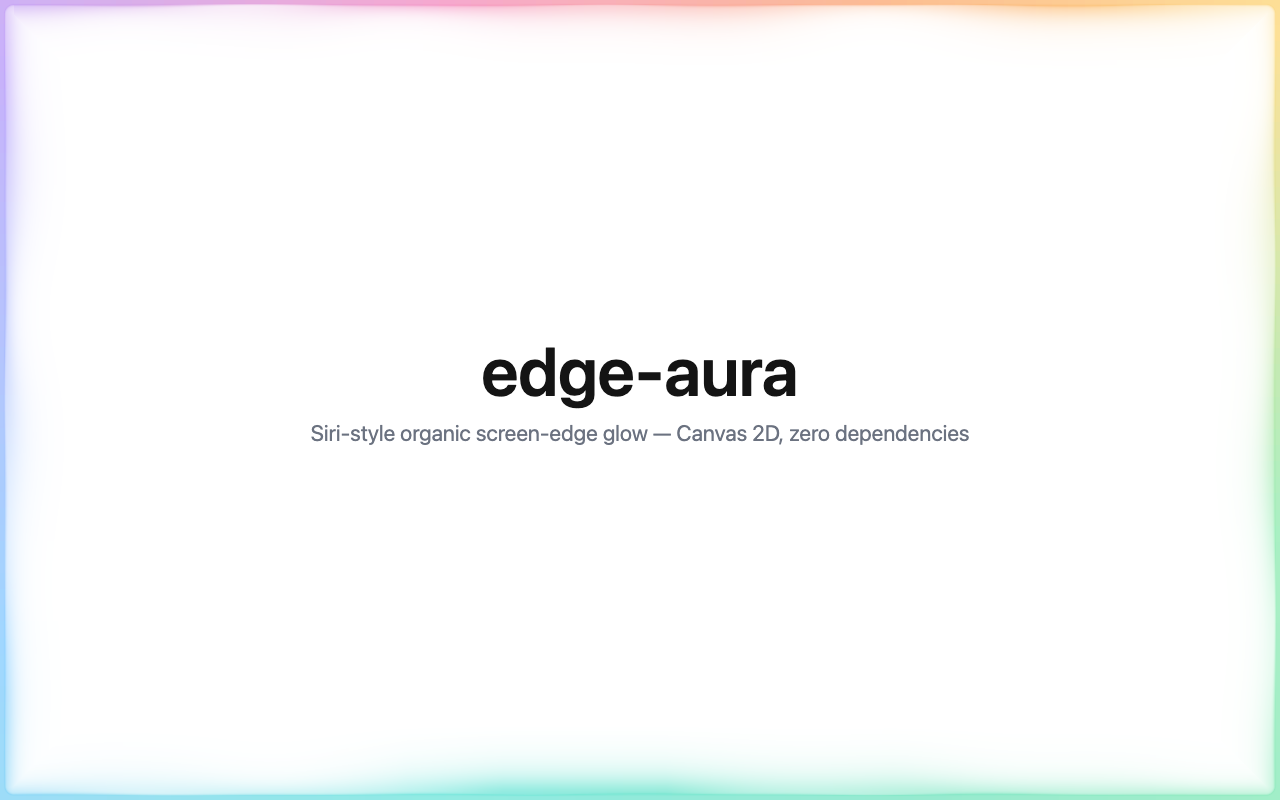
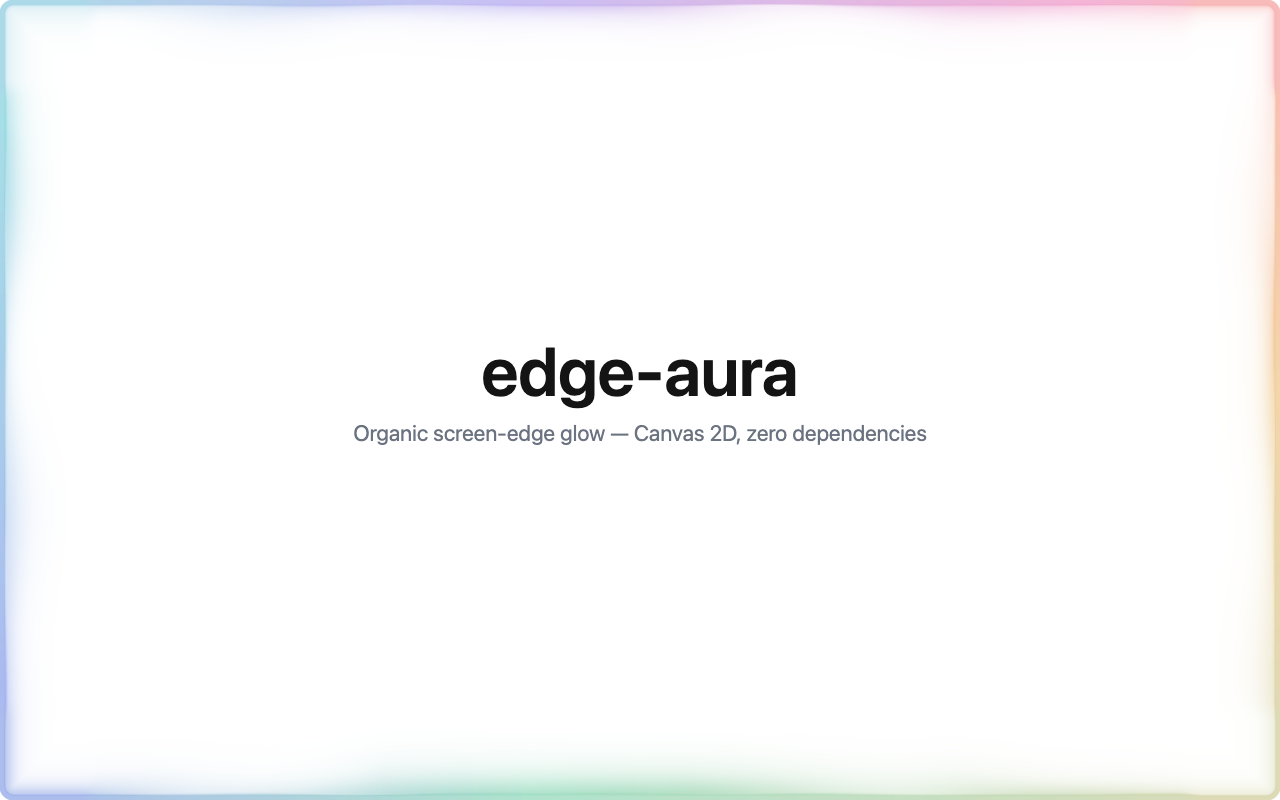
chore(release): v0.3.0 — changelog, hero image, version bump

Changed region(s): [[0.0, 0.0, 1.0, 1.0], [0.25, 0.5312, 0.75, 0.5625], [0.0, 0.8125, 0.1562, 1.0]]

diff --git a/CHANGELOG.md b/CHANGELOG.md
@@ -5,6 +5,59 @@ All notable changes to this project will be documented in this file.
 The format is based on [Keep a Changelog](https://keepachangelog.com/en/1.1.0/),
 and this project adheres to [Semantic Versioning](https://semver.org/spec/v2.0.0.html).
 
+## [0.3.0] - 2026-07-09
+
+### Added
+
+- Dark-background rendering pipeline (all gated on
+  `palette.background: "dark"`): `darkAlphaGamma` (default `0.55`) remaps the
+  emitted alpha through a concave curve so the bloom survives sRGB
+  source-over compositing on dark pages (the halo was previously 2.8–6.9×
+  too dark); `darkChroma` (default `1.15`) applies a lightness-preserving
+  Oklab chroma lift to the LUT; the dark default `coreWhiten` rises to
+  `0.32` and the normalization alpha floor to `0.45`; opt-in
+  `palette.blendMode: "screen" | "plus-lighter"` sets an additive
+  `mix-blend-mode` on the canvas (never applied on light backgrounds).
+- `palette.interpolation: "srgb" | "oklab"` — opt-in Oklab LUT
+  interpolation for custom palettes with widely-spaced stops.
+- Organic motion: `motion.hueDriftDeg` / `hueDriftPeriodS` (defaults
+  `10` / `12`) add a slow bounded hue oscillation on top of the ring
+  rotation; opt-in `motion.highlight { arcDeg, periodS, min }` sweeps a
+  raised-cosine bloom highlight around the perimeter.
+- `engine.updateOptions(partial)` — live option tuning (geometry realloc,
+  palette/LUT rebuild, motion/input scalars) with creation-equivalent
+  validation; `seed` is ignored after creation. The React `options` prop is
+  now **reactive** (section-wise diff applied via `updateOptions`).
+- React adapter now stops the animation loop while the document is hidden
+  (`visibilitychange`), composing with `active` and
+  `prefers-reduced-motion`.
+- Demo rebuilt as a product landing page: EN/日本語 language toggle and
+  light/dark theme toggle in the header, live playground sliders, an
+  auto-generated copyable `<EdgeAura …/>` snippet reflecting the current
+  controls, and installation/usage sections.
+
+### Changed
+
+- **Breaking:** the default palette `siri` is renamed **`opal`** and its
+  stops are redesigned (non-uniform mesh with a warm knot and a long cool
+  exhale, replacing the uniform rainbow). The previous rainbow stops remain
+  available as **`spectrum`**. `NORMALIZE_REF` / `NORMALIZE_REF_DARK` are
+  recomputed for the new default.
+- **Breaking (visual):** viewport corners now round off — the glow ends with
+  a 1.5 px feather ~`inset` px beyond the centerline arc instead of
+  flat-filling the square corner with peak alpha. Straight edges are
+  byte-identical.
+- Package description and keywords no longer reference third-party
+  assistant brands.
+
+### Fixed
+
+- Corner bloom continuity: eliminated the 45° brightness seam along the
+  corner ownership diagonals (up to 40/255) and the larger noise-wrap seam
+  at one corner-tile boundary (62/255) by evaluating corner-zone bloom
+  profiles from a shared per-corner snapshot with a smoothstep crossfade.
+  Mid-edge pixels are unchanged.
+
 ## [0.2.0] - 2026-07-08
 
 ### Added
@@ -89,6 +142,6 @@ and this project adheres to [Semantic Versioning](https://semver.org/spec/v2.0.0
 
 ## [0.1.0] - 2026-07-07
 
-Initial release — Siri-style organic screen-edge glow: zero-dependency
+Initial release — organic screen-edge glow: zero-dependency
 Canvas 2D engine (spring physics, palette LUT with perceptual
 normalization) plus a thin React adapter.

diff --git a/README.md b/README.md
@@ -5,11 +5,12 @@
 
 <img src="https://raw.githubusercontent.com/takuyajodai/edge-aura/main/docs/hero.png" alt="edge-aura — an organic glow ring hugging the viewport edges, with a tap bloom on the bottom edge" width="100%">
 
-An organic, Siri-style screen-edge glow: a rounded-rectangle "neon tube"
-hugging the viewport edges — a bright undulating core line plus a soft
-asymmetric bloom whose inner face dissolves with no perceptible end. The hue
-cycles continuously around the ring; tap, keystroke, and save-pulse inputs
-inject energy that swells localized hotspots through spring physics.
+An organic screen-edge glow, inspired by the ambient edge glows of on-device
+assistants (e.g. Apple's Siri): a rounded-rectangle "neon tube" hugging the
+viewport edges — a bright undulating core line plus a soft asymmetric bloom
+whose inner face dissolves with no perceptible end. The hue cycles
+continuously around the ring; tap, keystroke, and save-pulse inputs inject
+energy that swells localized hotspots through spring physics.
 
 The core engine is **framework-agnostic** (plain TypeScript + Canvas 2D,
 **zero dependencies**, no React imports). A React adapter is provided as a
@@ -144,7 +145,7 @@ if (pos) window.dispatchEvent(new CustomEvent("aura:key", { detail: pos }));
 ## Palette presets
 
 Named stop arrays are exported as `EDGE_AURA_PALETTES` (the engine's default
-is `EDGE_AURA_PALETTES.siri`). Every preset is a full hue cycle whose first
+is `EDGE_AURA_PALETTES.opal`). Every preset is a full hue cycle whose first
 and last stops match, so the loop wraps seamlessly. Stop arrays are typed
 `EdgeAuraPaletteStops` — an array of `EdgeAuraPaletteStop`
 (`[position, [r, g, b]]`) entries. (`PaletteStops` is a deprecated alias of
@@ -160,7 +161,8 @@ const engine = createAuraEngine(canvas, {
 
 | Preset | Character |
 |---|---|
-| `siri` | Stock Siri-style mesh gradient (full rainbow cycle) — the default |
+| `opal` | Organic mesh gradient — non-uniform stops, warm knot into a cool exhale — the default |
+| `spectrum` | Full-spectrum rainbow cycle — the loudest option |
 | `aurora` | Cool tones only: emerald / near-white / ice cyan / sky blue |
 | `sunset` | Warm dusk oranges and magentas |
 | `ocean` | Deep blues and teals |
@@ -241,12 +243,12 @@ should degrade gracefully on garbage numbers, not crash the host.
 
 | Option | Default | Description |
 |---|---|---|
-| `stops` | Siri-style 9 stops | Gradient stops `[position, [r, g, b]]`; first at 0, last at 1 |
+| `stops` | Opal's 8 stops | Gradient stops `[position, [r, g, b]]`; first at 0, last at 1 |
 | `pastel` | `0.35` | Mix toward white at LUT build time (0 = raw colors) |
 | `coreWhiten` | `0.2` | How strongly the core line whitens toward 255 (neon feel) |
 | `ringAlpha` | `0.90` | Max alpha cap — the page always shows through slightly |
 | `normalize` | `true` | Perceptual weight normalization (see below) |
-| `normalizeTarget` | `NORMALIZE_REF` (`NORMALIZE_REF_DARK` when `background: "dark"`) | Target perceptual weight (siri @ pastel 0.35, measured against the configured background); an explicit value always wins |
+| `normalizeTarget` | `NORMALIZE_REF` (`NORMALIZE_REF_DARK` when `background: "dark"`) | Target perceptual weight (opal @ pastel 0.35, measured against the configured background); an explicit value always wins |
 | `background` | `"light"` | Page background the normalization equalizes against — `"dark"` flips the weight metric to distance-from-black (see below) |
 
 ### `motion`
@@ -293,14 +295,14 @@ the engine equalizes this at creation time:
   "dark"` darkening colors would move weight *away* from the target, so
   there the alpha clamp alone is the best effort and `pastel` is never
   touched.)
-- The target defaults to `NORMALIZE_REF`, the weight of the stock `siri`
+- The target defaults to `NORMALIZE_REF`, the weight of the stock `opal`
   palette at pastel 0.35, so the default palette is pixel-identical with
   normalization on or off.
 
 **Dark pages:** `palette: { background: "dark" }` flips the metric to
 distance-from-*black* (perceptual weight = mean `relativeLuminance`), so
 normalization equalizes palettes against dark backgrounds instead. The
-default target then becomes `NORMALIZE_REF_DARK` (the stock `siri` palette
+default target then becomes `NORMALIZE_REF_DARK` (the stock `opal` palette
 at pastel 0.35 measured with the dark metric), so the default palette again
 renders identically with normalization on or off; an explicit
 `normalizeTarget` still wins. Note that `pastel` always mixes stops toward